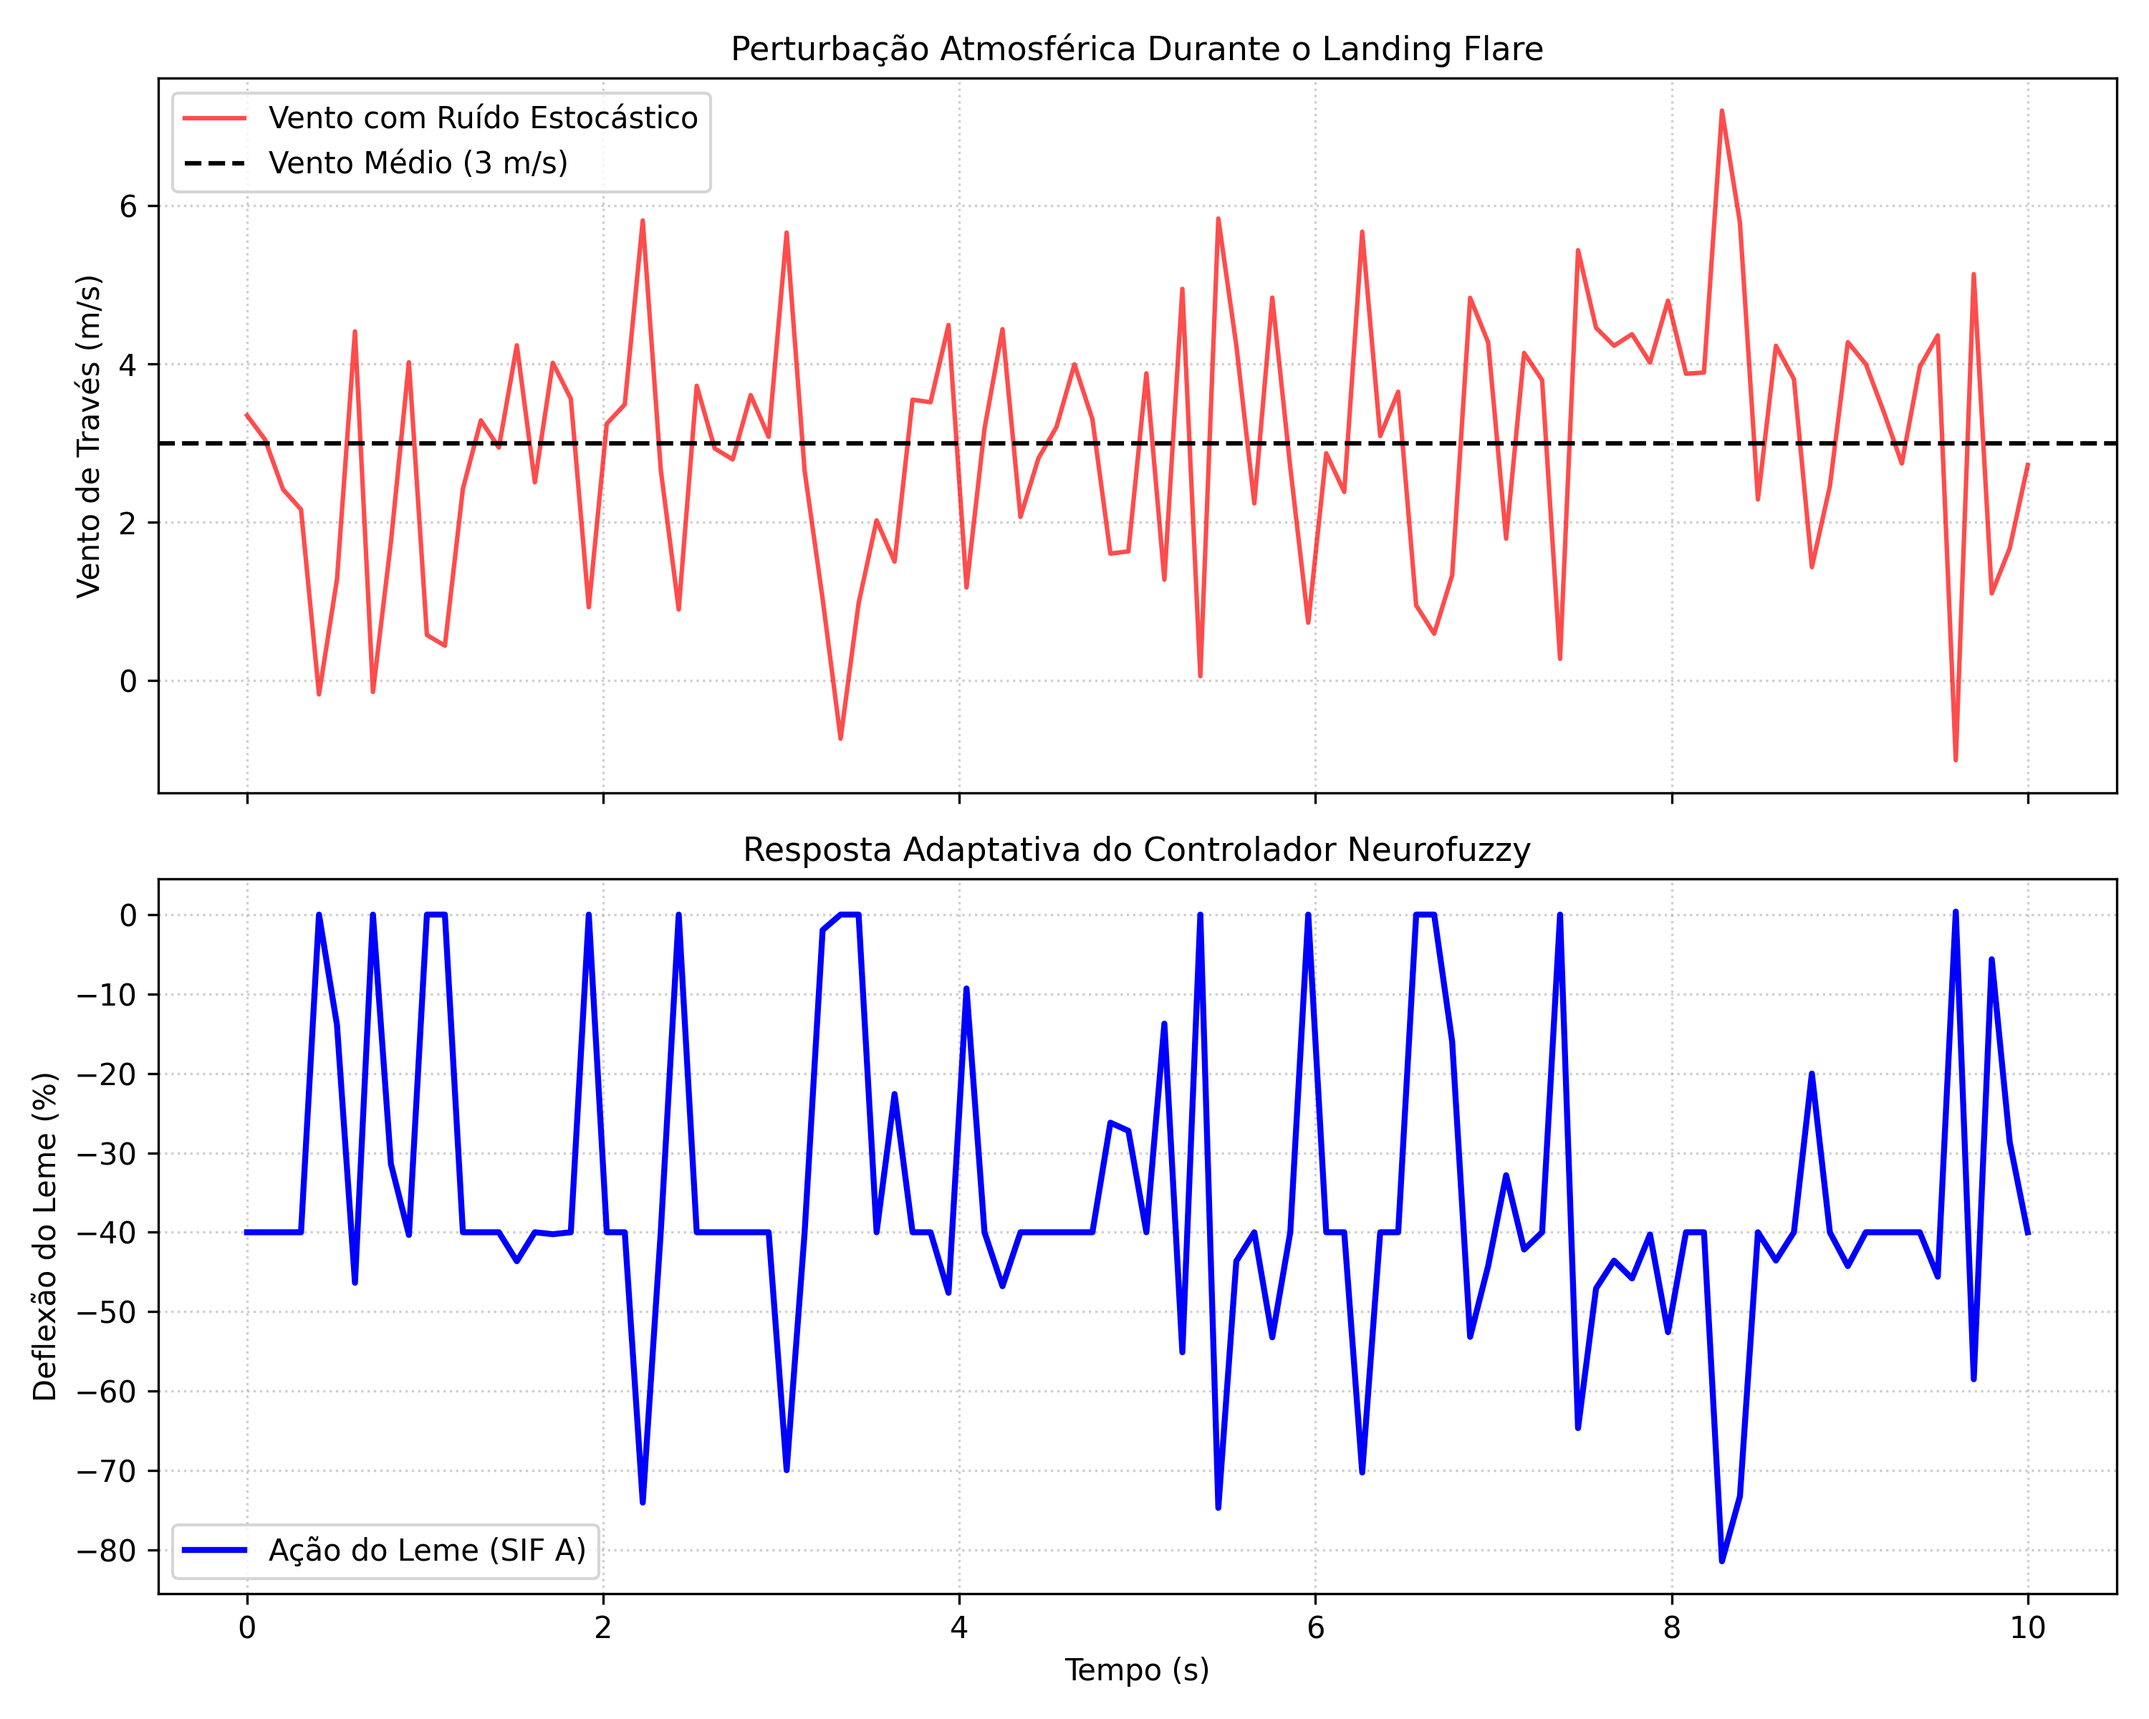
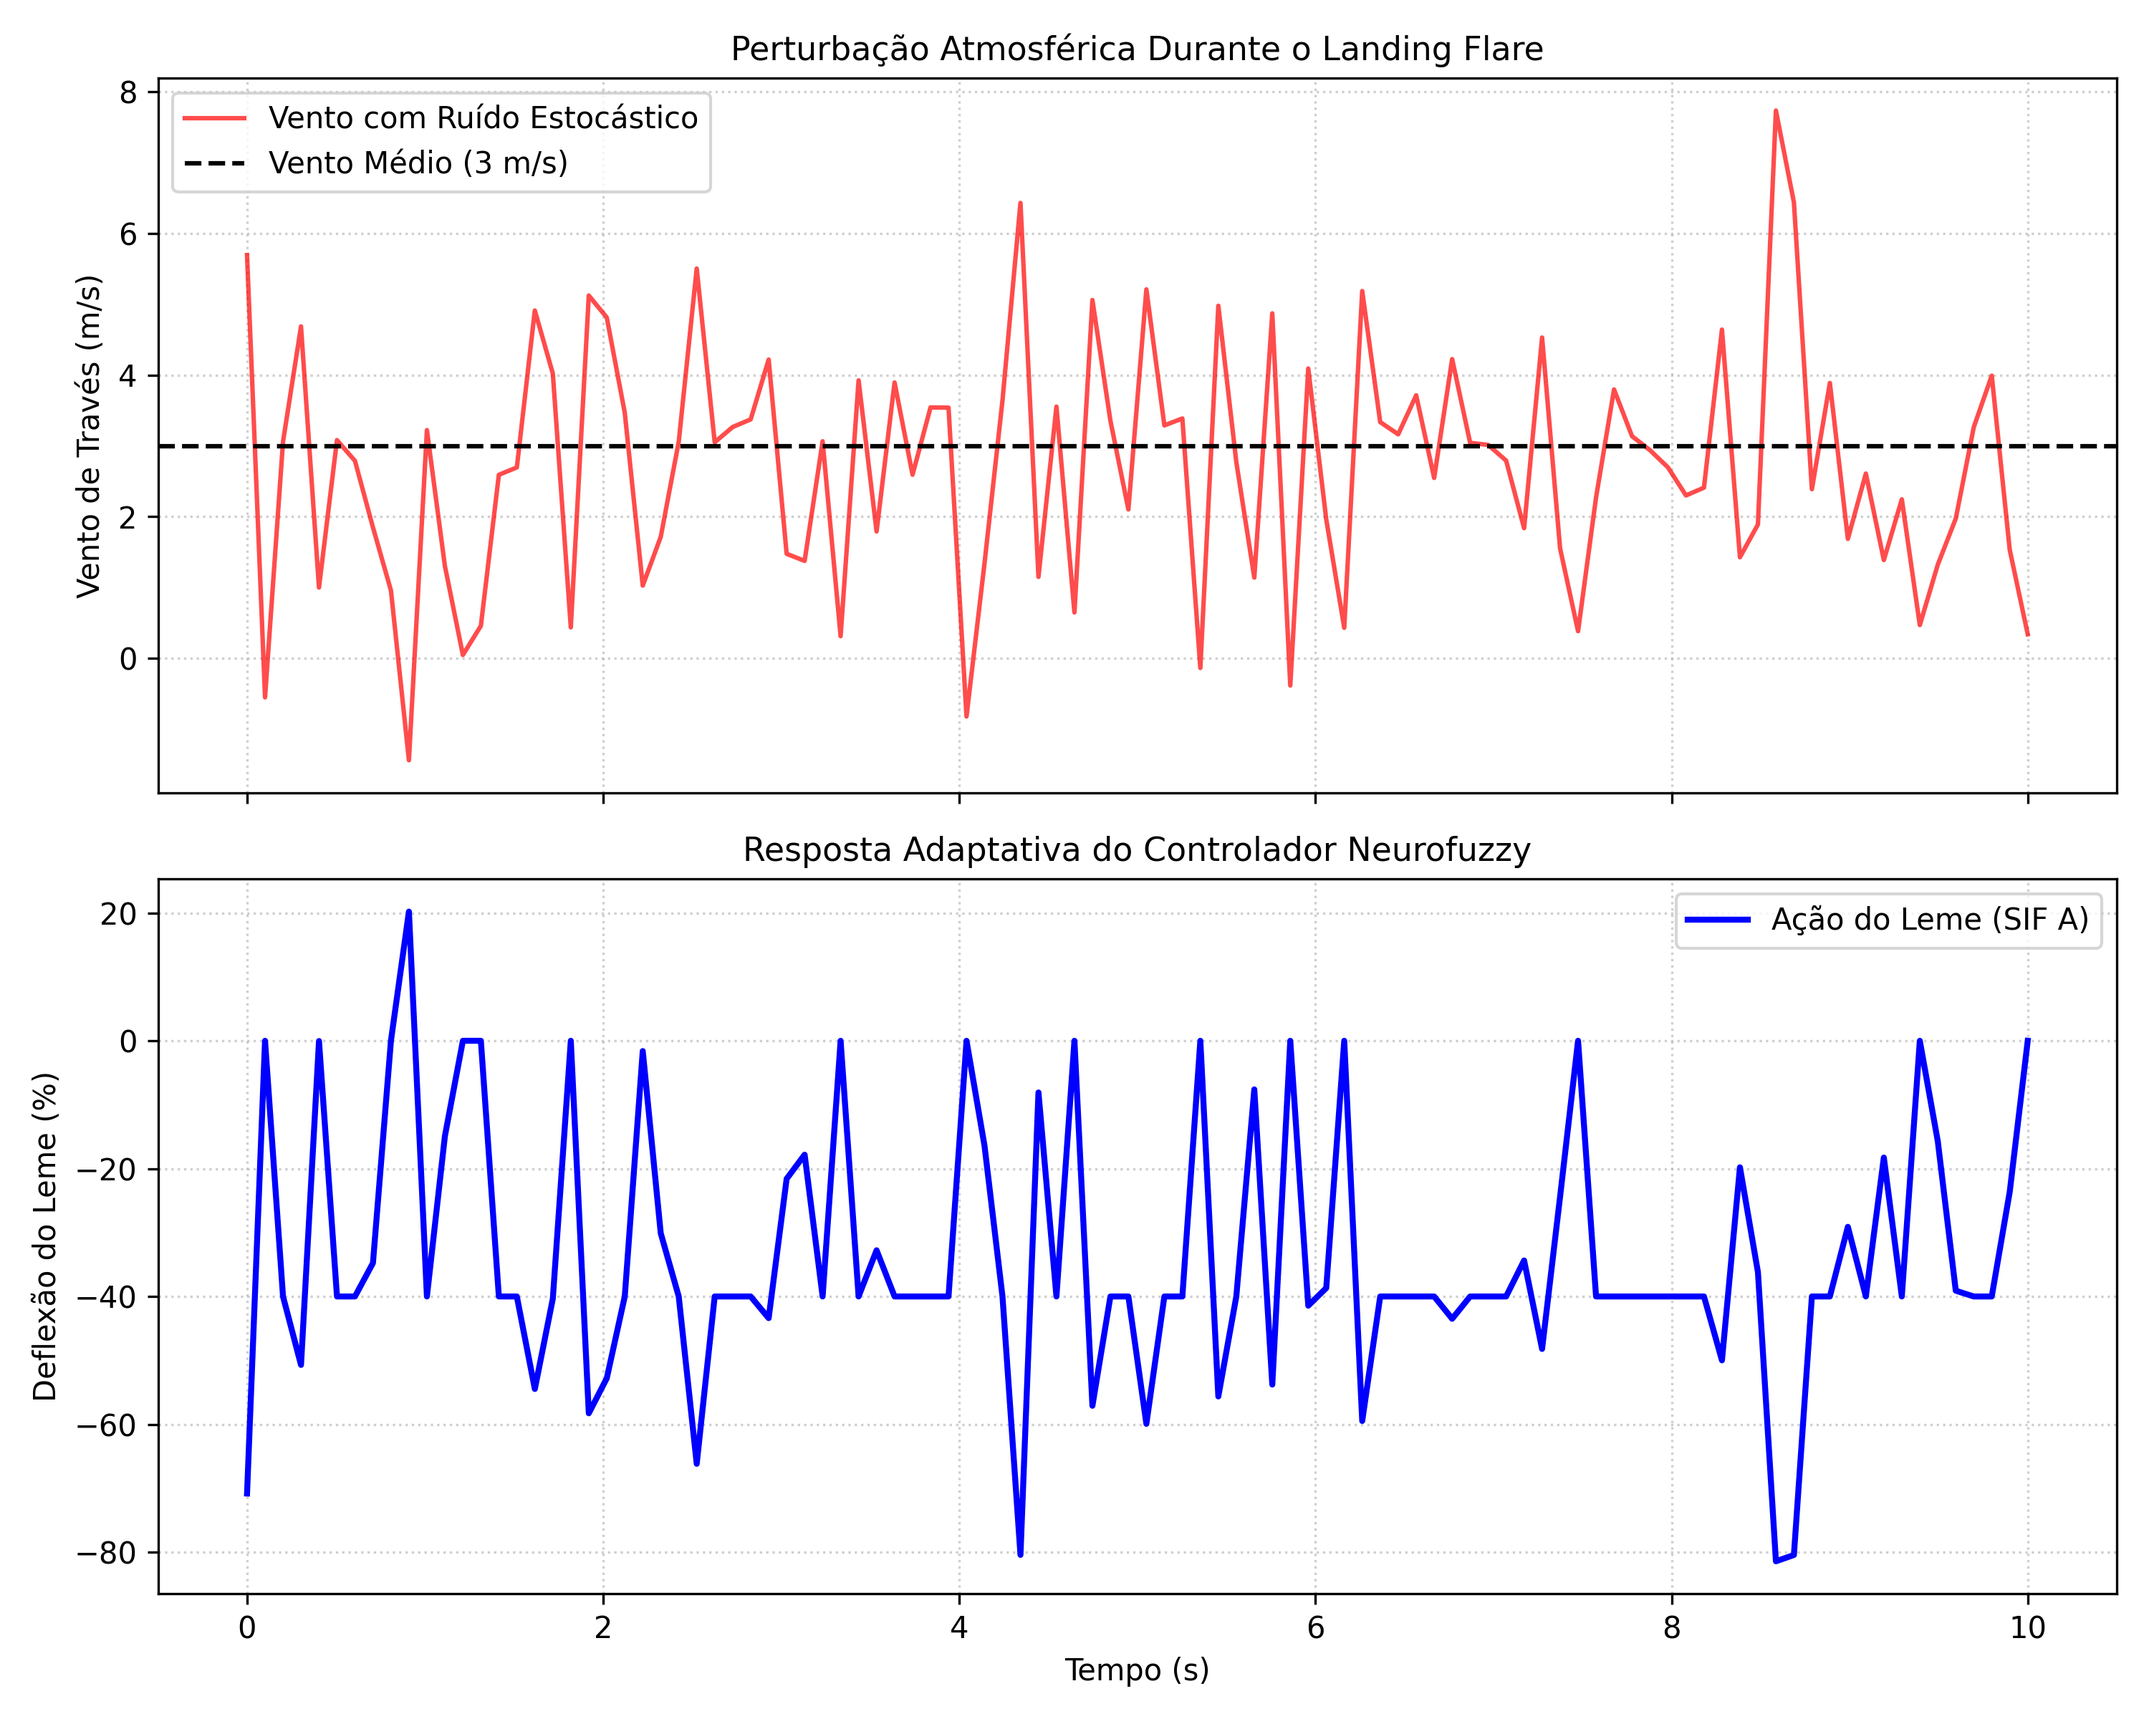
arruma o treinamento que estava faltando variaveis de entrada :D

diff --git a/src/rule_trainer.py b/src/rule_trainer.py
@@ -103,7 +103,7 @@ class NeuroFuzzyTrainer:
         df = self.generate_synthetic_data(num_scenarios=2000)
         
         if target == 'comando_leme':
-            features = ['altitude', 'vento_traves']
+            features = ['altitude', 'vento_traves', 'velocidade']
         else:
             features = ['altitude', 'taxa_descida', 'velocidade']
             
